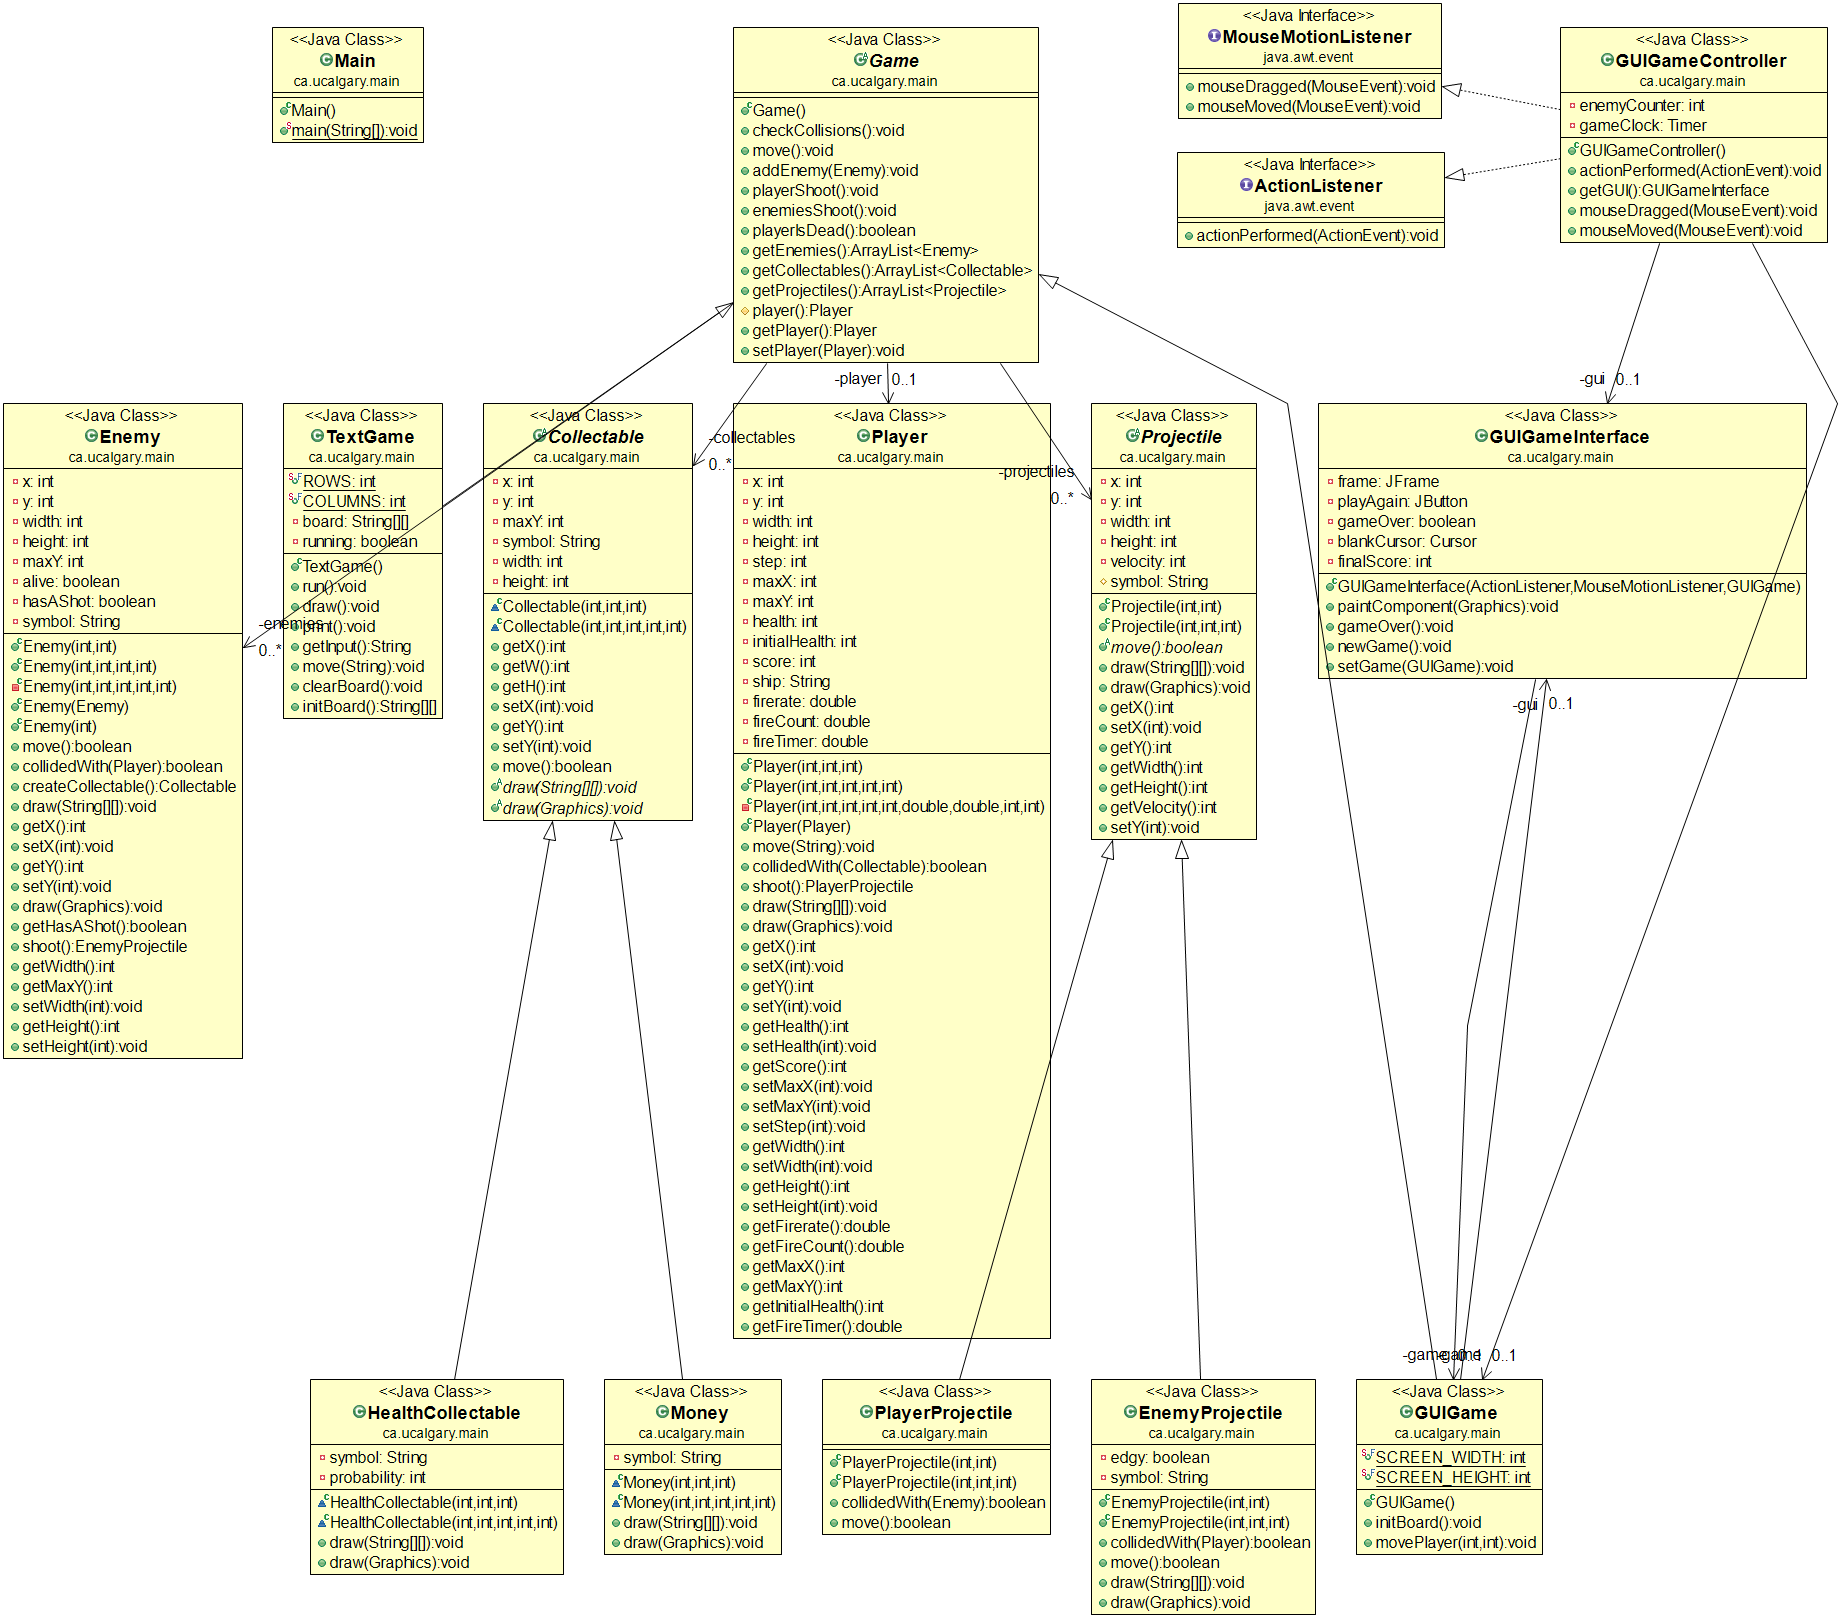
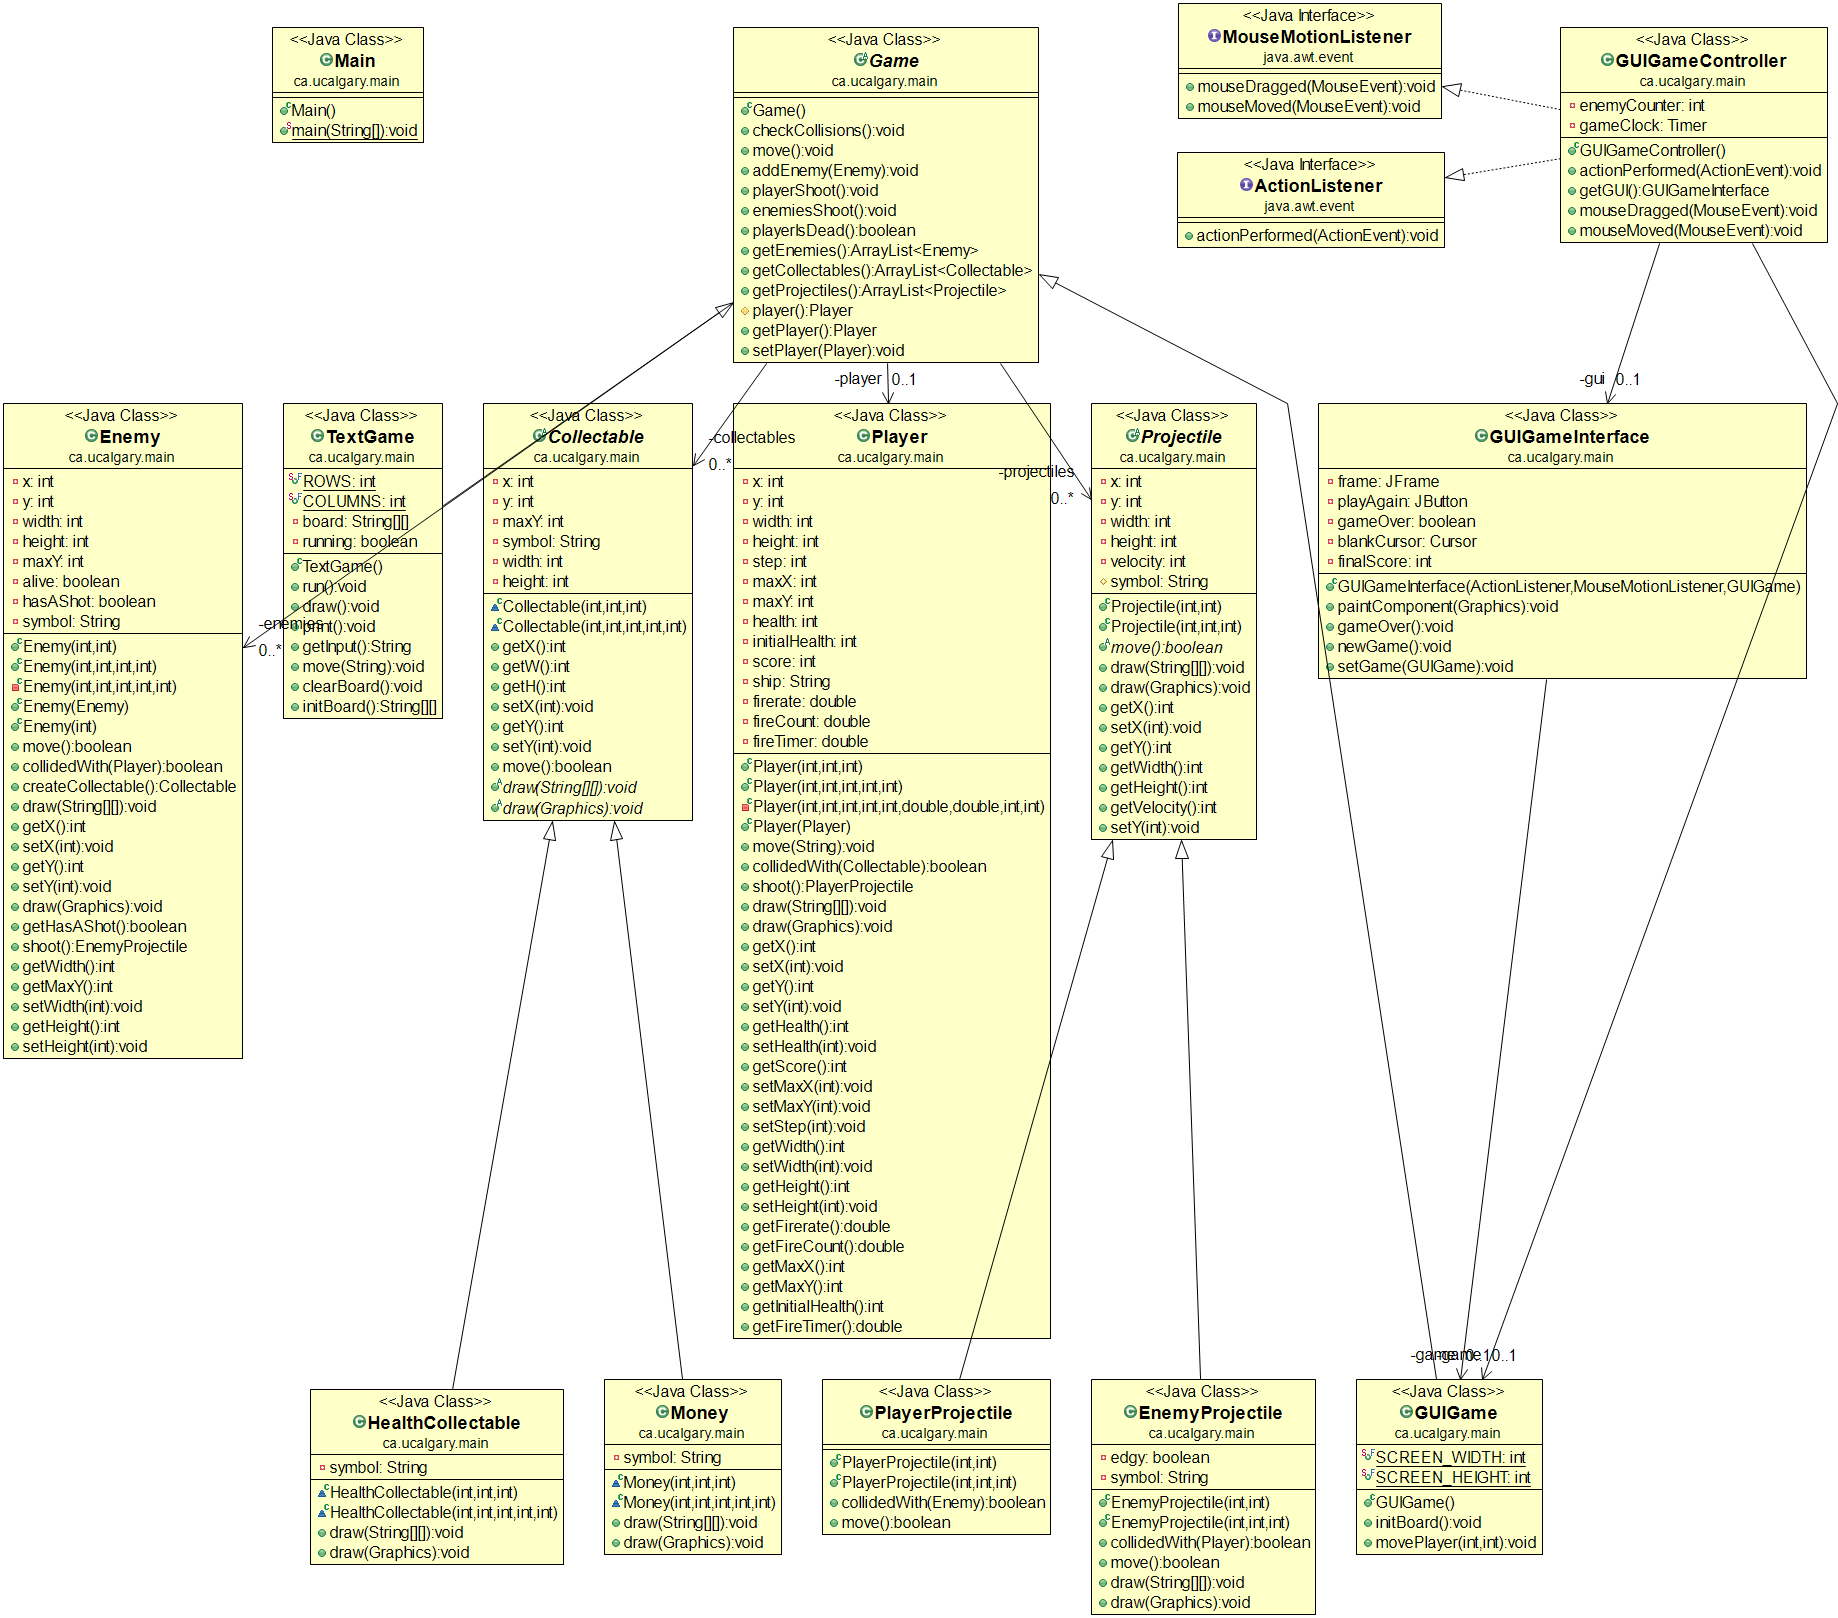
Removed unnessecary imports

Changed region(s): [[0.1551, 0.8344, 0.3101, 0.9889], [0.7753, 0.8344, 0.8063, 0.8653]]

diff --git a/src/ca/ucalgary/main/Player.java b/src/ca/ucalgary/main/Player.java
@@ -159,12 +159,12 @@ public class Player {
 		int cw = c.getW();
 		int ch = c.getH();
 
-		if (cx + cw >= x && cx <= (x + width) && cy >= y && cy <= y + height ) {
+		if (cx + cw >= x && cx <= (x + width) && cy + ch >= y && cy <= y + height ) {
             if (c instanceof Money) {
                 score++;
             } else if (c instanceof HealthCollectable) {
                 score++;
-                if (health + 1 < initialHealth) {
+                if (health + 1 <= initialHealth) {
                     health++;
                 }
             }

diff --git a/src/ca/ucalgary/main/GUIGameInterface.java b/src/ca/ucalgary/main/GUIGameInterface.java
@@ -8,14 +8,12 @@ import java.awt.Graphics;
 import java.awt.Point;
 import java.awt.Toolkit;
 import java.awt.event.ActionListener;
-import java.awt.event.KeyListener;
 import java.awt.event.MouseMotionListener;
 import java.awt.image.BufferedImage;
 
 import javax.swing.JButton;
 import javax.swing.JFrame;
 import javax.swing.JPanel;
-import javax.swing.JLabel;
 
 /**
  * The GUIGameInterface class controls all aspects of displaying the game graphically.

diff --git a/src/ca/ucalgary/main/Main.java b/src/ca/ucalgary/main/Main.java
@@ -34,7 +34,7 @@ public class Main {
         }
         else if (gameChoice == 2){
             GUIGameController guiGame = new GUIGameController();
-        	System.out.println("You chose the gooey game! Control your ship using WASD.");
+        	System.out.println("You chose the GUI game! Control your ship using the mouse");
         	GUIGameInterface gui = guiGame.getGUI();
         	gui.setVisible(true);
 

diff --git a/src/ca/ucalgary/main/GUIGameController.java b/src/ca/ucalgary/main/GUIGameController.java
@@ -3,7 +3,6 @@ package ca.ucalgary.main;
 import java.awt.event.ActionEvent;
 import java.awt.event.ActionListener;
 import java.awt.event.MouseEvent;
-import java.awt.event.MouseListener;
 import java.awt.event.MouseMotionListener;
 import java.util.Random;
 

diff --git a/src/ca/ucalgary/main/HealthCollectable.java b/src/ca/ucalgary/main/HealthCollectable.java
@@ -6,7 +6,6 @@ import java.awt.Graphics;
 public class HealthCollectable extends Collectable {
 
     private String symbol = "+";
-    private int probability;
     
     /**
      * Collectable constructor for the TextBased version of the game, 

diff --git a/src/ca/ucalgary/main/GUIGame.java b/src/ca/ucalgary/main/GUIGame.java
@@ -6,8 +6,6 @@ package ca.ucalgary.main;
  *
  */
 public class GUIGame extends Game {
-
-	private GUIGameInterface gui;
 	
 	public static final int SCREEN_WIDTH = 350;
 	public static final int SCREEN_HEIGHT = 500;

diff --git a/src/ca/ucalgary/main/EnemyProjectile.java b/src/ca/ucalgary/main/EnemyProjectile.java
@@ -70,7 +70,7 @@ public class EnemyProjectile extends Projectile {
 	 */
 	@Override
 	public void draw(String[][] board) {
-		board[getY()][getX()] = "*";
+		board[getY()][getX()] = symbol;
 	}
 
 	/**

diff --git a/src/ca/ucalgary/main/TextGame.java b/src/ca/ucalgary/main/TextGame.java
@@ -1,7 +1,6 @@
 package ca.ucalgary.main;
 
 import java.util.ArrayList;
-import java.util.Iterator;
 import java.util.Random;
 import java.util.Scanner;
 
